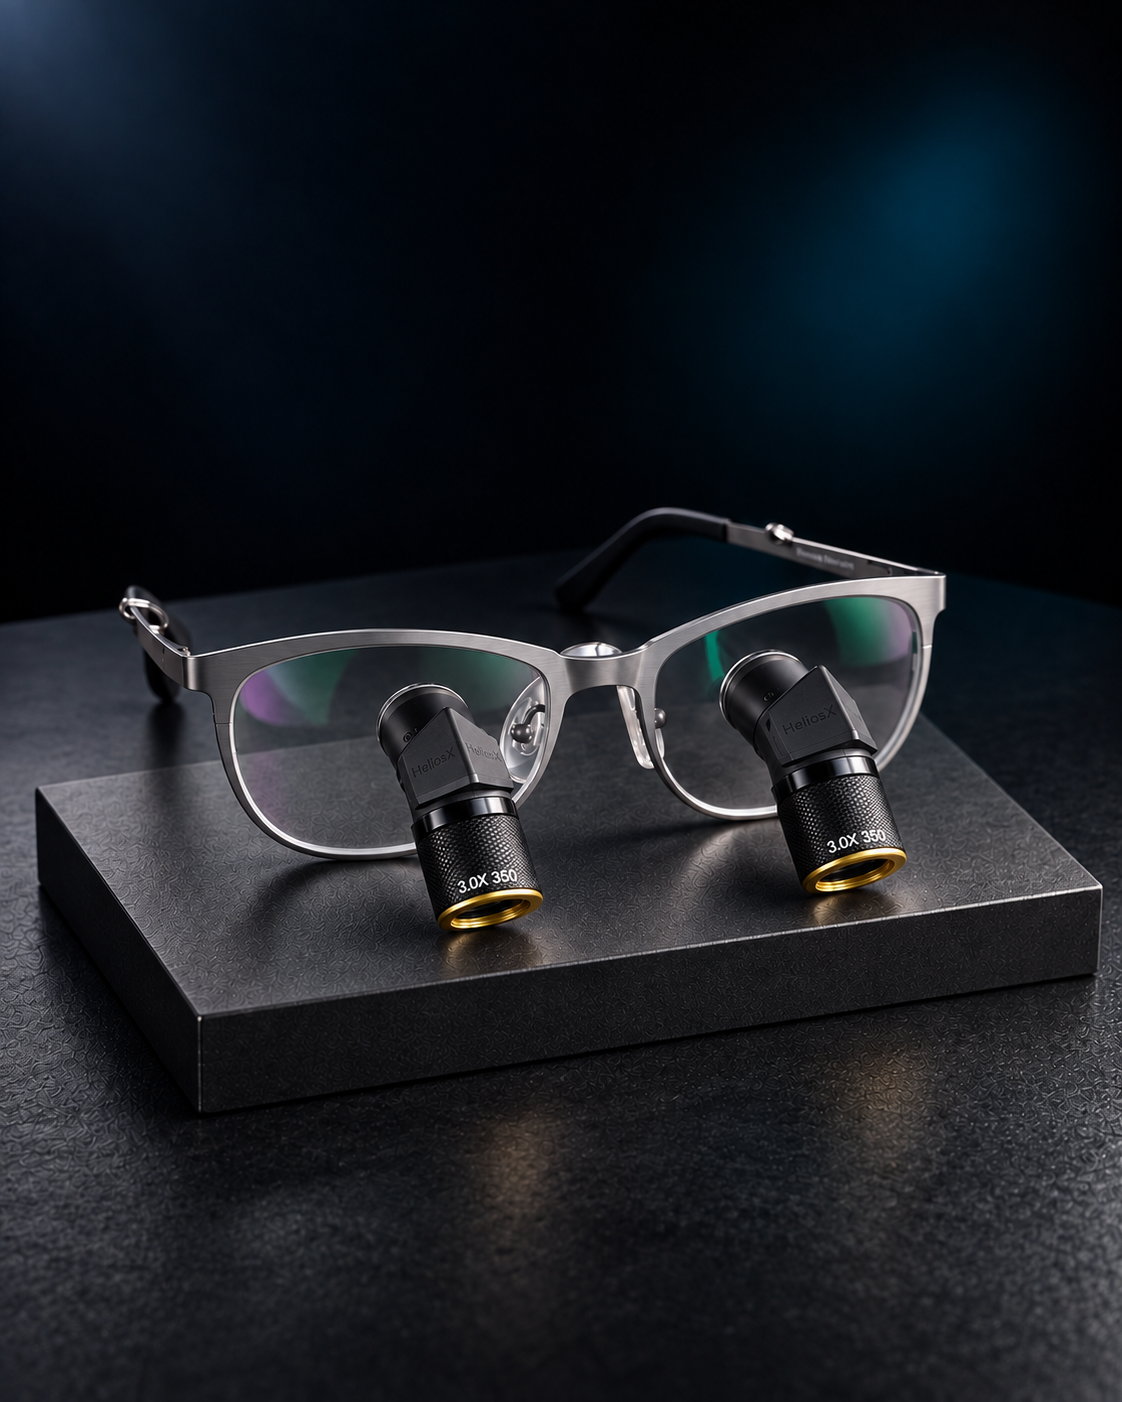
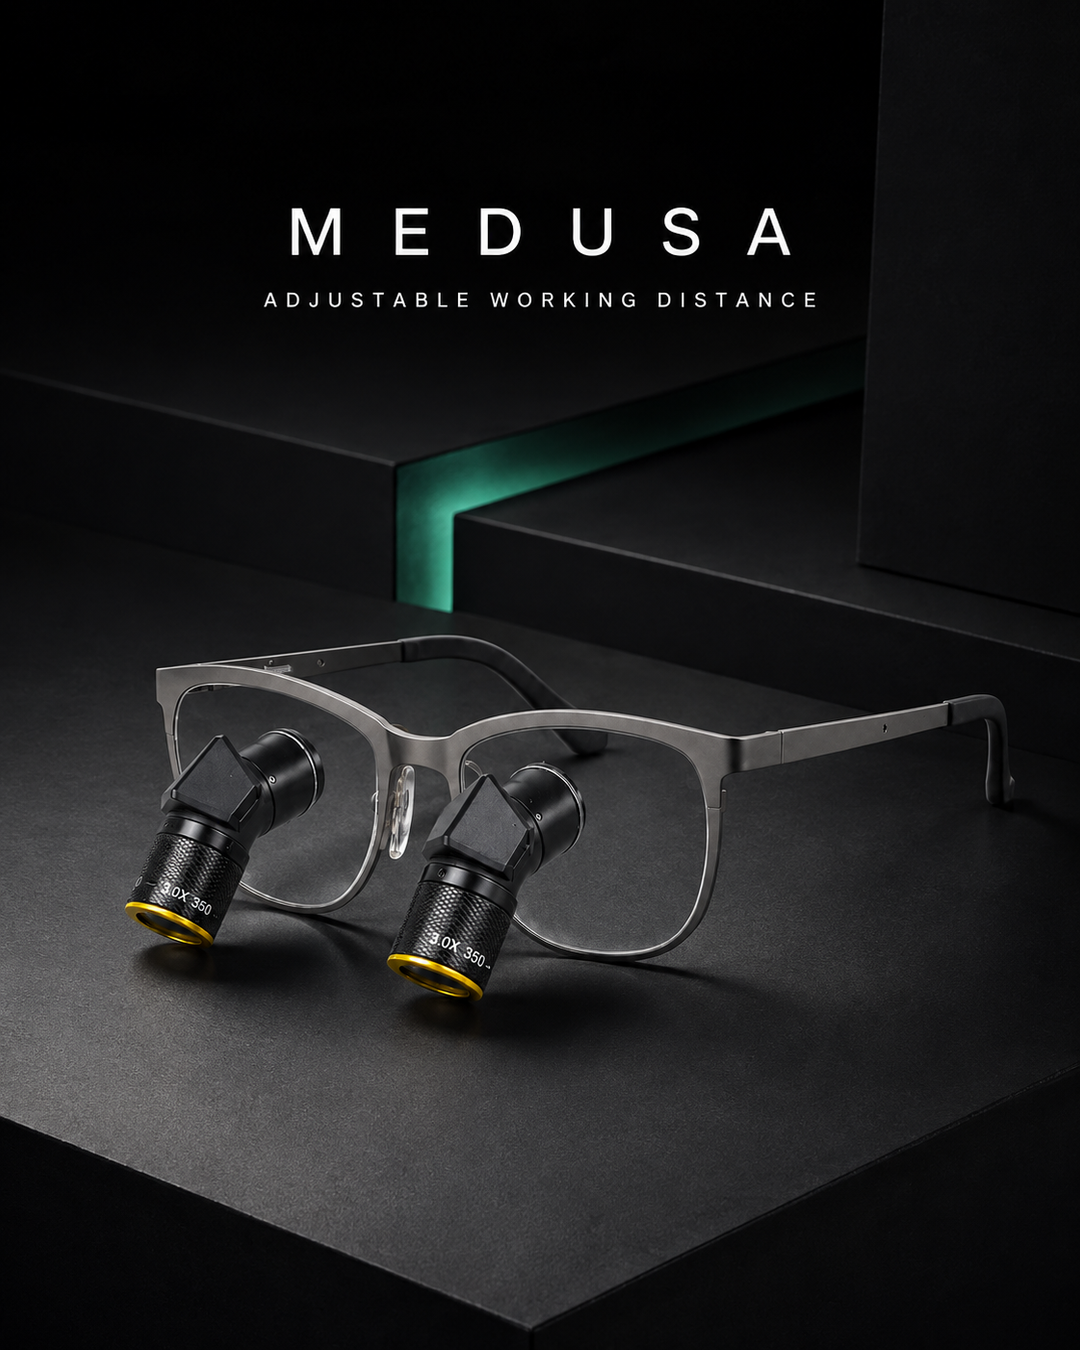
Bust cache for mobile Medusa hero

diff --git a/components/home/MobileHomeExperience.tsx b/components/home/MobileHomeExperience.tsx
@@ -213,7 +213,7 @@ export default function MobileHomeExperience() {
       <motion.section {...rise}>
         <ParallaxMedia className="h-[330px]" travel={6}>
           <Image
-            src="/mobile-home/medusa-editorial.png"
+            src="/mobile-home/medusa-pedestal-v2.png"
             alt="Medusa ergonomic prismatic surgical loupes"
             fill
             priority
